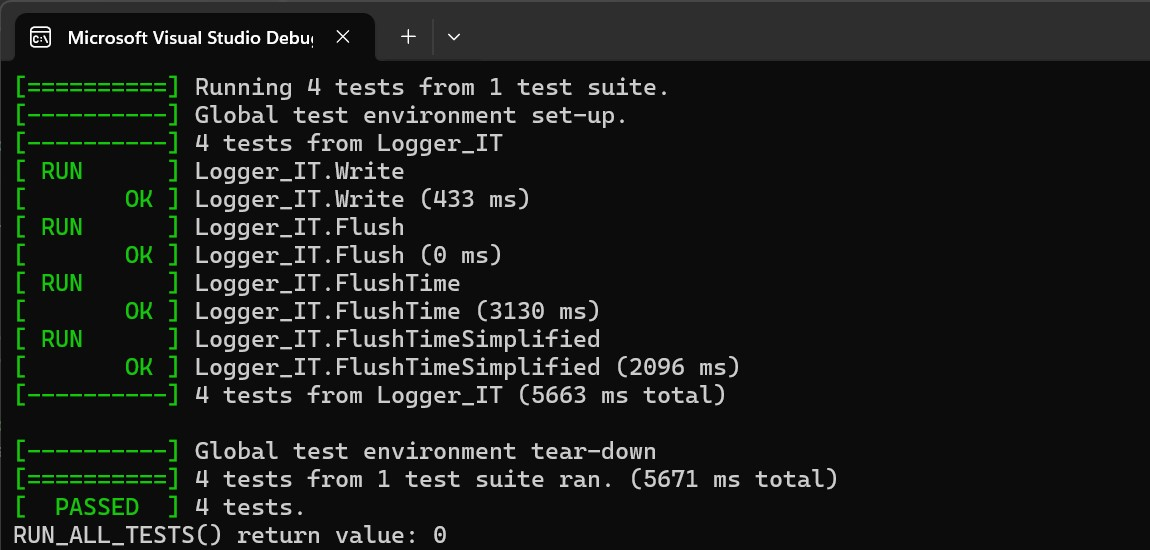
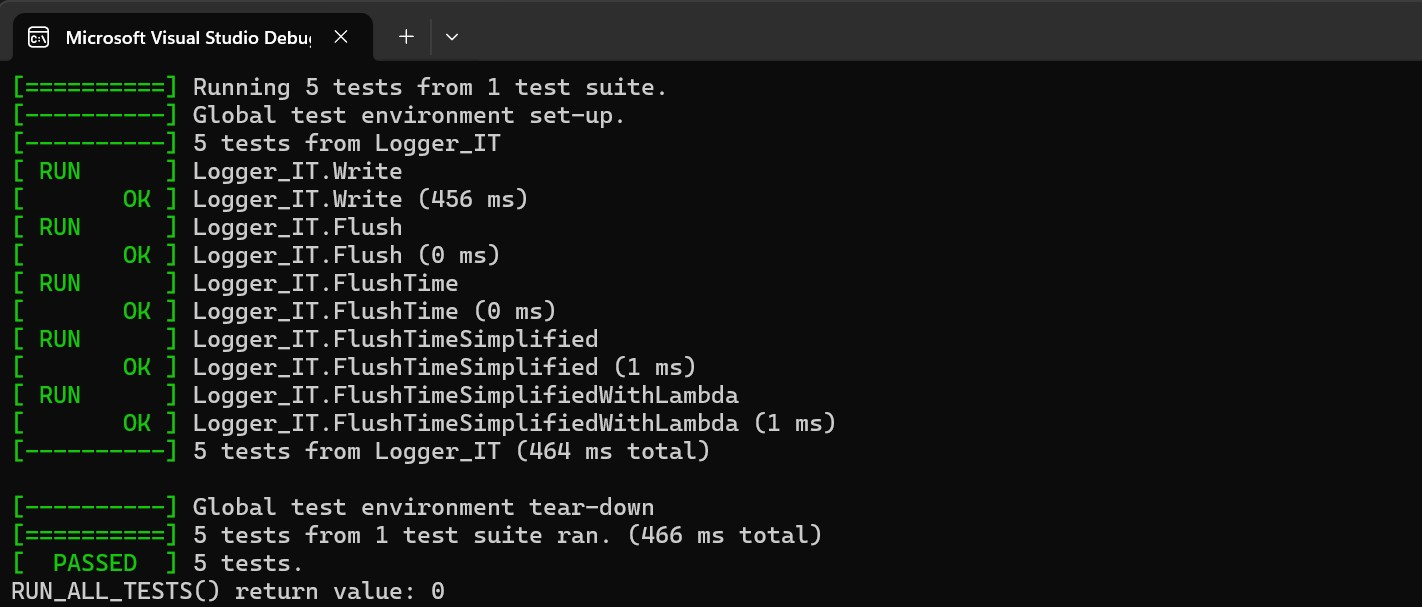
Update code

Changed region(s): [[0.0, 0.0, 1.0, 0.7727], [0.0, 0.8036, 0.7304, 1.0]]

diff --git a/Logger/it/Logger_IT.cpp b/Logger/it/Logger_IT.cpp
@@ -215,5 +215,73 @@ TEST(Logger_IT, FlushTimeSimplified)
 	Logger::GetInstance().m_logData.FlushTimeDelegate -= MakeDelegate(&FlushTimeCb);
 }
 
+
+// Exact same test as FlushTimeSimplified above, but use a private lambda callback 
+// function to centralize the callback inside the test case. 
+TEST(Logger_IT, FlushTimeSimplifiedWithLambda)
+{
+	// Logger callback handler lambda function invoked from Logger thread context
+	auto FlushTimeLambdaCb = +[](milliseconds duration) -> void
+	{
+		// Protect flushTime against multiple thread access by IntegrationTest 
+		// thread and Logger thread
+		lock_guard<mutex> lock(mtx);
+
+		// Save the flush time
+		flushDuration = duration;
+	};
+
+	{
+		// Protect access to flushDuration
+		lock_guard<mutex> lock(mtx);
+		flushDuration = milliseconds(-1);
+	}
+
+	// Register for a callback from Logger thread
+	Logger::GetInstance().m_logData.FlushTimeDelegate += MakeDelegate(FlushTimeLambdaCb);
+
+	// Clear the m_msgData list on Logger thread
+	auto retVal1 = AsyncInvoke(
+		&Logger::GetInstance().m_logData.m_msgData,	// Object instance
+		&std::list<std::string>::clear,				// Object function
+		Logger::GetInstance(),						// Thread to invoke object function
+		milliseconds(50));							// Wait up to 50mS for async invoke
+
+	// Write 10 lines of log data
+	for (int i = 0; i < 10; i++)
+	{
+		//  Call LogData::Write on Logger thread
+		auto retVal = AsyncInvoke(
+			&Logger::GetInstance().m_logData,
+			&LogData::Write,
+			Logger::GetInstance(),
+			milliseconds(50),
+			"Flush Timer String");
+
+		// Check that LogData::Write returned true
+		if (retVal.has_value())
+			EXPECT_TRUE(retVal.value());
+	}
+
+	// Call LogData::Flush on Logger thread
+	auto retVal2 = AsyncInvoke(
+		&Logger::GetInstance().m_logData,
+		&LogData::Flush,
+		Logger::GetInstance(),
+		milliseconds(100));
+
+	{
+		// Protect access to flushDuration
+		lock_guard<mutex> lock(mtx);
+
+		// Check that flush executed in 10mS or less
+		EXPECT_GE(flushDuration, std::chrono::milliseconds(0));
+		EXPECT_LE(flushDuration, std::chrono::milliseconds(10));
+	}
+
+	// Unregister from callback
+	Logger::GetInstance().m_logData.FlushTimeDelegate -= MakeDelegate(FlushTimeLambdaCb);
+}
+
 // Dummy function to force linker to keep the code in this file
 void Logger_IT_ForceLink() { }

diff --git a/Logger/src/Logger.cpp b/Logger/src/Logger.cpp
@@ -249,9 +249,9 @@ void Logger::Process()
 
 			case MSG_EXIT_THREAD:
 			{
-                m_timerExit = true;
-                timerThread.join();
-                return;
+				m_timerExit = true;
+				timerThread.join();
+				return;
 			}
 
 			default:

diff --git a/README.md b/README.md
@@ -2,15 +2,15 @@
 An integration test framework used for testing multi-threaded C++ based projects using Google Test and Asynchronous Multicast Delegate libraries.
 
 ## Overview
-Testing mission critical software is crucial. For medical devices, the IEC 62304 provided guidance on the required software development process. Three levels of software testing are defined:
+Testing mission critical software is crucial. For medical devices, the IEC 62304 provides guidance on the required software development process. Three levels of software testing are defined:
 
-1. **Unit Testing** - Verifies the correctness of individual units of code in isolation.
-2. **Integration Testing** - Tests how different units of code interact and work together.
-3. **System Testing** - Evaluates the entire system as a whole to ensure it meets specified requirements.
+1. **Unit Testing** - Verifies individual units of code in isolation.
+2. **Integration Testing** - Tests multiple units of code integrated and working together.
+3. **System Testing** - Evaluates system as a whole to ensure it meets specified requirements.
 
-Unit testing is well understood, with numerous frameworks (including Google Test) readily available and easily incorporated into a CI/CD toolchain pipeline. System testing is also well-documented, with various techniques and tools available. However, in my experience, integration testing is more challenging to write.
+Unit testing is well understood, with numerous frameworks (including Google Test) readily available and easily incorporated into a CI/CD toolchain pipeline. System testing is also well-documented, with various techniques and tools available. However, in my experience, integration testing is more challenging to create.
 
-This project implements an integration testing framework for multi-threaded C++ applications, compatible with any system supporting C++, including Windows and Linux. It has no external OS dependencies or libraries beyond the standard C++ library. Multi-threading is achieved using the C++ thread support library, eliminating the need for OS-specific dependencies.
+This project implements an integration testing framework for multi-threaded C++ applications, compatible with any system supporting C++, including Windows and Linux. It has no external OS dependencies or libraries beyond the standard C++ library. Multi-threading is achieved using the C++ thread support library, eliminating the need for OS-specific dependencies. Alternatively, write a small amount of code to port the framework to any PC or embedded operating system.
 
 ## References
 * [Goolge Test](https://github.com/google/googletest) - Google Test is a C++ unit testing framework that provides an API for writing and running unit tests.
@@ -62,7 +62,7 @@ The project contains the following directories:
 * **Port** - supporting utilities source code files
 
 ## CMake Build
-CMake is used to create the project build files. See `CMakeLists.txt` for more information.
+[CMake](https://cmake.org/) is used to create the project build files. See `CMakeLists.txt` for more information.
 
 ### Windows Visual Studio
 
@@ -93,7 +93,7 @@ See [Asynchronous Multicast Delegates (C++17)](https://github.com/endurodave/Asy
 The integration tests are contained within `Logger_IT.cc`. All tests follow a similar pattern:
 
 1. **Setup** - perform setup actions such as register for a callback, clear result data, or invoke the test function.
-2. **Wait** - wait for the subsystem to respond with test results, typically during a callback.
+2. **Wait** - wait for the subsystem to respond with test results, either synchronously or asynchronously during a callback.
 3. **Check** - check the test results for success or failure.
 3. **Cleanup** - cleanup the test such as unregister for callbacks.
 
@@ -174,7 +174,7 @@ TEST(Logger_IT, Flush)
 ### FlushTime Test
 The `FlushTime` tests how long the system takes to execute `Flush()` enforcing a runtime timing constraint.
 
-The production code within `LogData` was modified to add the `FlushTimeDelegate` member. All code modifications to support integration testing are wrapped in the conditional compile flag `IT_ENABLE`.
+The production code within `LogData` was modified to add the `FlushTimeDelegate` member. All production code modifications to support integration testing are wrapped in the conditional compile flag `IT_ENABLE`.
 
 ```cpp
 class LogData
@@ -359,6 +359,38 @@ TEST(Logger_IT, FlushTimeSimplified)
 	Logger::GetInstance().m_logData.FlushTimeDelegate -= MakeDelegate(&FlushTimeCb);
 }
 ```
+
+### FlushTestSimplifiedWithLambda Test
+The `FlushTestSimplifiedWithLambda` example is identical to the previous test but uses a local lambda callback function. Sometimes a callback is only needed within a single test, and using a lambda function helps keep all the test code centralized in one place.
+
+```cpp
+// Exact same test as FlushTimeSimplified above, but use a private lambda callback 
+// function to centralize the callback inside the test case. 
+TEST(Logger_IT, FlushTimeSimplifiedWithLambda)
+{
+	// Logger callback handler lambda function invoked from Logger thread context
+	auto FlushTimeLambdaCb = +[](milliseconds duration) -> void
+	{
+		// Protect flushTime against multiple thread access by IntegrationTest 
+		// thread and Logger thread
+		lock_guard<mutex> lock(mtx);
+
+		// Save the flush time
+		flushDuration = duration;
+	};
+
+	{
+		// Protect access to flushDuration
+		lock_guard<mutex> lock(mtx);
+		flushDuration = milliseconds(-1);
+	}
+
+	// Register for a callback from Logger thread
+	Logger::GetInstance().m_logData.FlushTimeDelegate += MakeDelegate(FlushTimeLambdaCb);
+
+    // etc...
+```
+
 ### Integration Test Results
 The integration test results are output to the console. 
 
@@ -371,7 +403,7 @@ The system has two threads:
 2. `IntegrationTest`
 
 ### Logger Thread
-The `Logger` thread main loop is shown below. The `MSG_DISPATCH_DELEGATE` was added to handle dispatching all delegate function invocations onto the `Logger` thread.
+The `Logger` thread main loop is shown below. The `MSG_DISPATCH_DELEGATE` case was added to handle dispatching *all* delegate function invocations onto the `Logger` thread.
 
 ```cpp
 void Logger::Process()
@@ -470,11 +502,11 @@ public:
 	virtual ~DelegateThread() = default;
 
 	/// Dispatch a DelegateMsg onto this thread. The implementer is responsible
-	/// for getting the DelegateMsg into an OS message queue. Once DelegateMsg
+	/// for getting the DelegateMsgBase into an OS message queue. Once DelegateMsgBase
 	/// is on the correct thread of control, the DelegateInvoker::DelegateInvoke() function
 	/// must be called to execute the callback. 
 	/// @param[in] msg - a pointer to the callback message that must be created dynamically.
-	/// @pre Caller *must* create the DelegateMsg argument dynamically.
+	/// @pre Caller *must* create the DelegateMsgBase argument dynamically.
 	/// @post The destination thread calls DelegateInvoke().
 	virtual void DispatchDelegate(std::shared_ptr<DelegateMsgBase> msg) = 0;
 };
@@ -516,4 +548,4 @@ void IntegrationTest::Run()
 Include `UI_Client.h` in any production module that requires integration test support.
 
 ## Conclusion
-Developing a user-friendly integration testing framework that mirrors the simplicity of unit testing can be challenging. This document outlines a solution that leverages the established Google Test and Delegate libraries to achieve this goal.
+Developing a user-friendly integration testing framework that mirrors the simplicity of unit testing can be challenging. This document outlines a solution that leverages Google Test and Delegate libraries to achieve this goal.
